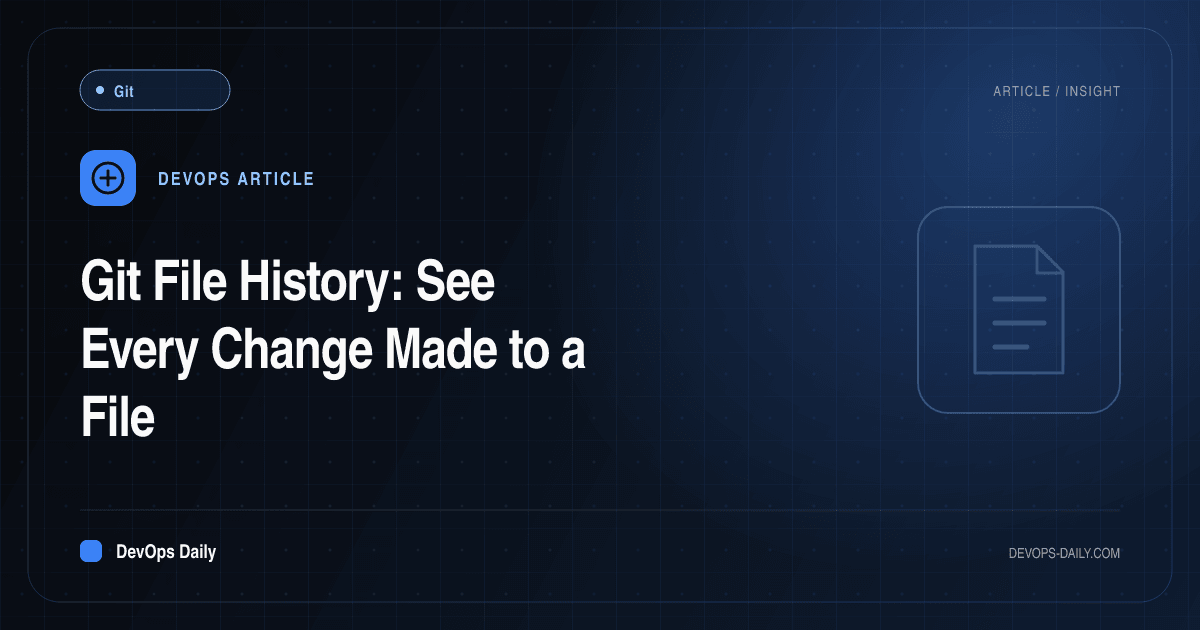
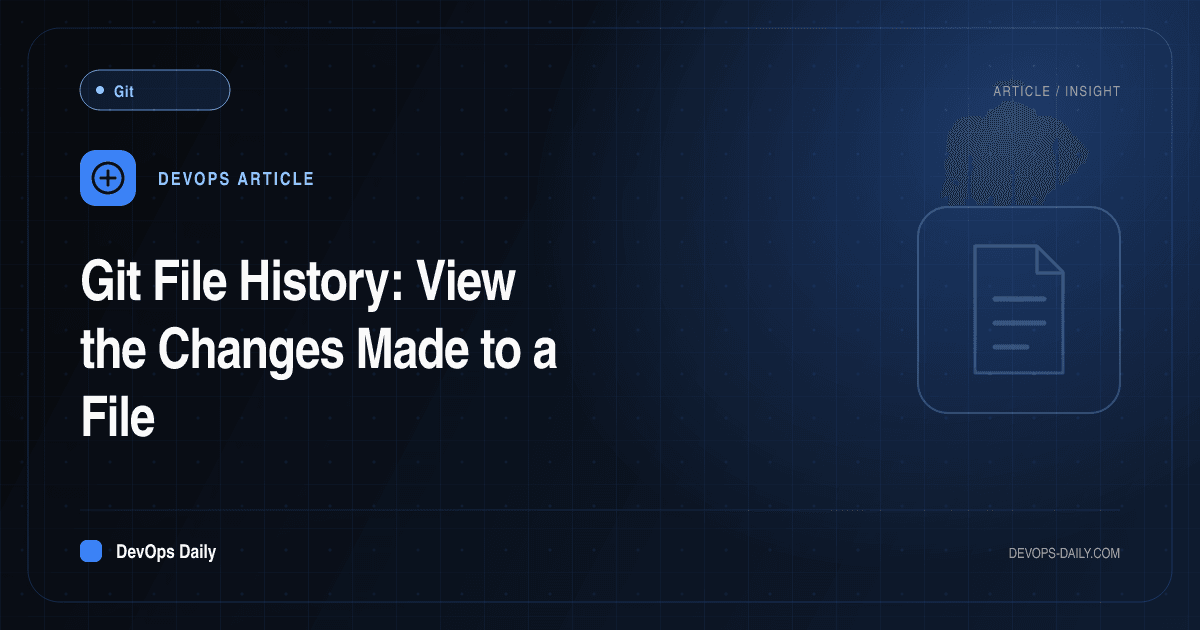
Do not promise every change in the file history title
Claude-Session: https://claude.ai/code/session_01FRYkaYp9vFJjWBjAQdjnQ4

Changed region(s): [[0.0617, 0.5127, 0.4933, 0.6032], [0.7708, 0.1508, 0.925, 0.3317], [0.3392, 0.3921, 0.4317, 0.4825]]

diff --git a/content/posts/view-file-change-history-git.md b/content/posts/view-file-change-history-git.md
@@ -1,5 +1,5 @@
 ---
-title: 'Git File History: See Every Change Made to a File'
+title: 'Git File History: View the Changes Made to a File'
 excerpt: 'Run git log --follow -p -- path/to/file to list the commits that changed a file, with patches, across renames. git blame shows who last changed each line.'
 category:
   name: 'Git'
